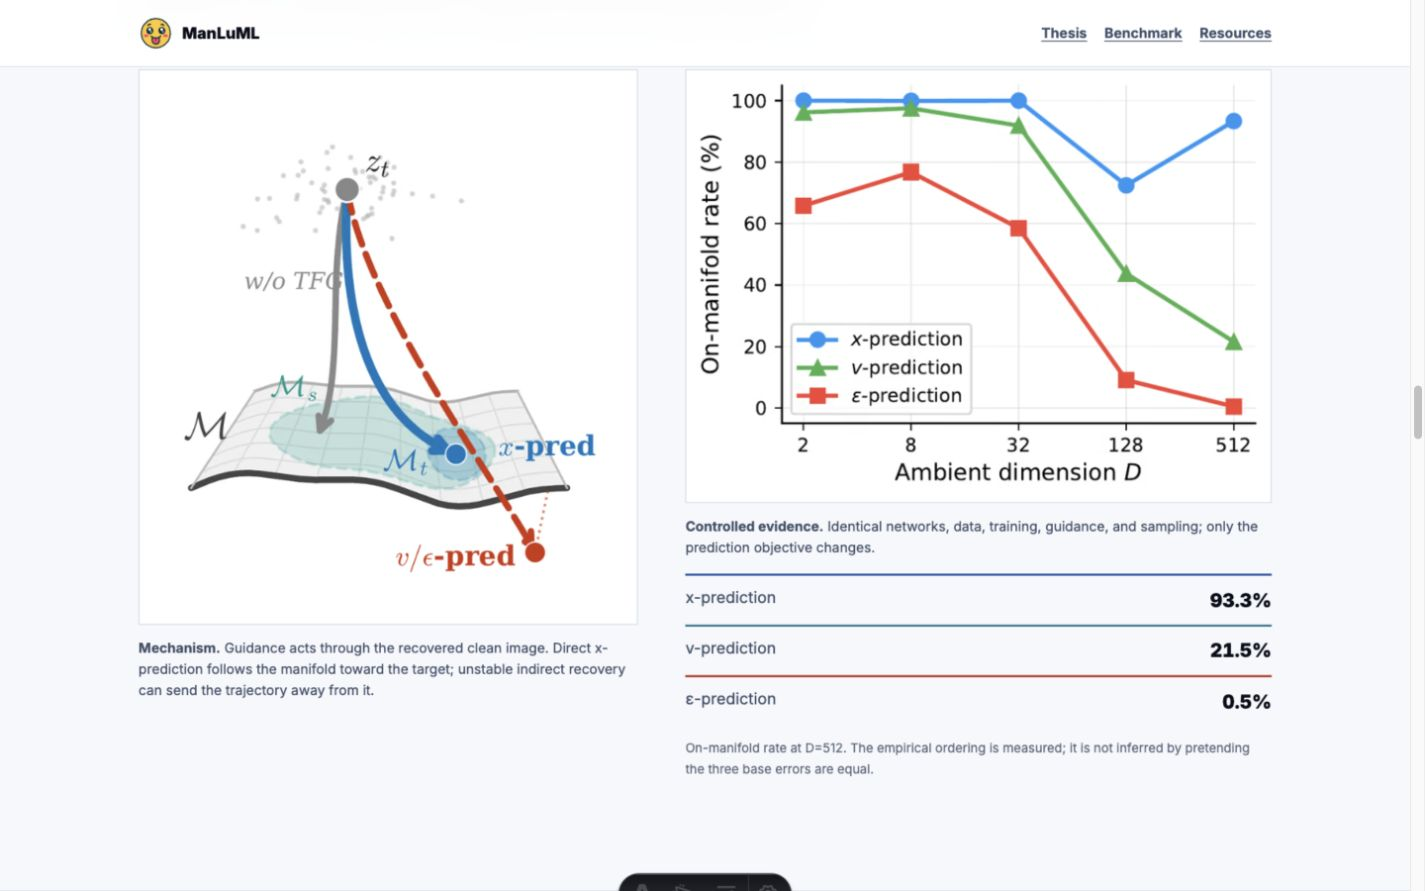
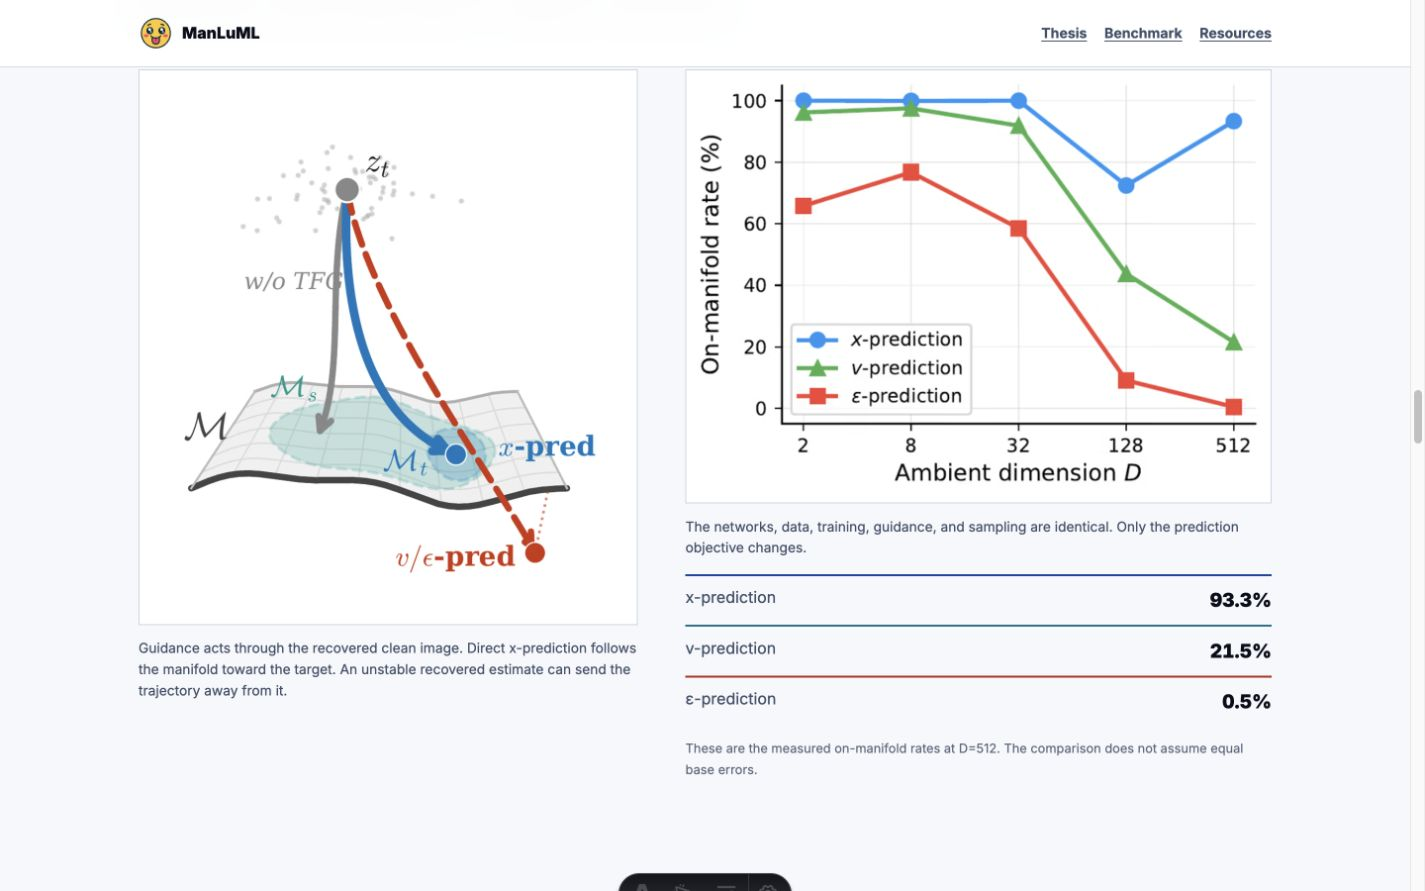
Humanize project page copy

diff --git a/site/tests/e2e/project.spec.ts b/site/tests/e2e/project.spec.ts
@@ -51,7 +51,7 @@ test('project metadata, claims, resources, and text-only affiliations are comple
   await expect(page.getByText('21.5%', { exact: true }).first()).toBeVisible();
   await expect(page.getByText('0.5%', { exact: true }).first()).toBeVisible();
   await expect(page.getByText('9,152 generated images')).toBeVisible();
-  await expect(page.getByRole('heading', { name: 'Steer a pretrained model. Keep the result real.' })).toBeVisible();
+  await expect(page.getByRole('heading', { name: 'Can guidance hit the target and keep the image realistic?' })).toBeVisible();
   await expect(page.getByText('Scope and limitations')).toHaveCount(0);
   await expect(page.getByText(/Camera-ready/i)).toHaveCount(0);
   expect(externalRuntimeRequests).toEqual([]);
@@ -75,7 +75,7 @@ test('failure and mechanism stories are scroll-native and complete', async ({ pa
   await expect(page.locator('.failure-band')).toHaveCount(3);
   for (const band of await page.locator('.failure-band').all()) await expect(band).toBeVisible();
   await expect(page.locator('.recovery-rows article')).toHaveCount(3);
-  await expect(page.getByText('The clean endpoint t=1 is not a robustness comparison')).toBeVisible();
+  await expect(page.getByText('That endpoint does not rank robustness.')).toBeVisible();
 });
 
 test('formula and manifold figure visual baselines remain balanced', async ({ page }) => {
@@ -134,6 +134,7 @@ test('accessibility, English-only output, and reduced motion pass', async ({ pag
   expect(results.violations).toEqual([]);
   const publicText = [await page.locator('body').innerText(), await page.title()].join('\n');
   expect(publicText).not.toMatch(/[\u3131-\u318E\uAC00-\uD7A3]/);
+  expect(publicText).not.toMatch(/[—–]|makes that promise measurable|points in the same direction|Read the sequence, then test the cause|Broadly yes/i);
   expect(await page.locator('html').evaluate((element) => getComputedStyle(element).scrollBehavior)).toBe('auto');
 });
 
@@ -171,7 +172,7 @@ test('mobile failure sequence keeps individual samples legible', async ({ page }
     await target.decode();
   });
   expect(await image.evaluate((element) => (element as HTMLImageElement).currentSrc)).toContain('jit-failure-mobile-640');
-  await expect(page.locator('.failure-band.x')).toHaveScreenshot('project-failure-x-320.png');
+  await expect(page.locator('.failure-band.x picture')).toHaveScreenshot('project-failure-x-320.png');
 });
 
 test('200% text sizing reflows without clipped content', async ({ page }) => {

diff --git a/docs/site-release/validation.md b/docs/site-release/validation.md
@@ -15,22 +15,23 @@ Release candidate verified on 2026-09-01 in Asia/Seoul. Production fields are ap
 | Artifact | Files | Size | `index.html` SHA-256 | 404 SHA-256 | Social-card SHA-256 |
 | --- | ---: | ---: | --- | --- | --- |
[3 lines of base64/hex data omitted]
 
-Both `npm test` commands pass from locked dependencies. Root: seven manifest/unit assertions and six browser tests. Project: eight asset/slide/citation assertions and fifteen browser tests. Astro reports zero type/schema errors, warnings, or hints. Dependency audit reports zero vulnerabilities. Deterministic-integrity checks cover 25 root inputs/outputs and 262 project inputs/outputs, including every generated figure variant, mobile comparison crop, social card, license, complete presentation asset, and generator source.
+Both `npm test` commands pass from locked dependencies. Root: seven manifest/unit assertions and six browser tests. Project: eight asset/slide/citation assertions and fifteen browser tests. Astro reports zero type/schema errors, warnings, or hints. Dependency audit reports zero vulnerabilities. Deterministic-integrity checks cover 25 root inputs/outputs and 266 project inputs/outputs, including every generated figure variant, mobile comparison crop, social card, license, complete presentation asset, and generator source.
 
 ## Contract checks
 
 - Schema: explicit manifest accepts one reviewed published feature, rejects duplicate slugs, invalid/missing links, and unreviewed publication; draft/private and future-project fixtures remain invisible.
 - Build and paths: root and `/on-manifold-tfg/` build statically with trailing slashes; project assets use the configured base. No server runtime, database, analytics, cookies, or external runtime CDN requests.
 - Content: claim table covers the `t=1` endpoint interpretation, high-noise formulas, D=512 values, realistic TFG task, pooled Child FID, matched-validity values, 5.2-point gap, 143 species, 9,152 samples, and broader controls. Search/assertion checks find no blanket “only target differs” cross-model claim.
+- Writing: visible project-page prose passed the Humanizer pattern audit. The rewrite removes stock sales language, repeated answer openings, dramatic fragments, vague transitions, and em/en dashes while preserving every formula, number, qualifier, URL, the accepted-paper abstract, and the provisional BibTeX entry. Distribution and browser tests guard the reviewed wording against regressions.
 - Scroll story: all x/v/ε failure bands, balanced accessible formulas, high-noise explanation, Figure 1(a), dimension plot, benchmark definition, resources, and citation exist in initial HTML. Tabs and the timestep slider are absent; copy feedback remains visible and announced.
 - Accessibility: automated axe reports zero violations; semantic browser tree contains ordered headings, landmarks, named controls, tables/captions, MathML, figure alternatives/captions, status feedback, and a working skip link. Keyboard, reduced-motion, no-JavaScript, and 320px reflow paths pass.
 - Affiliation override: two simplified text affiliations render; no `Republic of Korea` string and zero affiliation-logo image paths or files.
[1 lines of base64/hex data omitted]
 - Metadata: unique titles/descriptions, absolute canonicals, Open Graph/X fields, 1200×630 cards, root Organization/WebSite JSON-LD, project ScholarlyArticle/citation metadata, sitemap, robots files, favicons, and noindexed 404 pages pass assertions.
 - Links: every independently hosted public resource returned HTTP 200 in the prelaunch check, including the official ECCV poster record, arXiv, GitHub profiles/repository, the immutable legacy snapshot, and all three Hugging Face resources. Dedicated post-deployment workflow checks verify both site origins and bidirectional root/project navigation.
-- Lab performance across the final scroll-first candidate runs: root metrics remain unchanged; project LCP is 68–96 ms and CLS 0.0000–0.0015. Latin and Greek Inter subsets are preloaded before first paint to avoid cross-run font-swap shifts. These are local Chromium lab values, not field p75 data.
+- Lab performance across the final scroll-first and humanized-copy candidate runs: root metrics remain unchanged; project LCP is 68–100 ms and CLS 0.0000–0.0015. Latin and Greek Inter subsets are preloaded before first paint to avoid cross-run font-swap shifts. These are local Chromium lab values, not field p75 data.
 - Visual evidence: committed 320px baselines cover the first viewport, text-only affiliations, and a legible mobile failure crop. Desktop captures cover the two-line hero, benchmark definition, scroll-native failure sequence, balanced formulas, and the paired Figure 1(a)/dimension evidence layout.
 
 ## Rollback restoration evidence

diff --git a/docs/project-page-implementation-plan.md b/docs/project-page-implementation-plan.md
@@ -18,6 +18,10 @@ The hero gives the paper title the full content width at a reduced display size,
 
 The BibTeX is independently audited against the official ECCV accepted-paper/poster records, Springer’s ECCV 2026 proceedings-title convention, arXiv, and Crossref. Because paper-level Springer metadata is not public, the provisional entry uses `booktitle = {Computer Vision -- ECCV 2026}` and `note = {To appear}` while intentionally omitting DOI, pages, volume, proceedings part, ISBN, editors, publisher, address, and month.
 
+## Implementation addendum — prose review
+
+The final public copy is reviewed with the Humanizer skill. The pass removes generic sales language, repeated “Yes.” openings, vague evidence summaries, dramatic fragments, and em/en dashes. It keeps the accepted-paper abstract and BibTeX byte-for-byte unchanged and preserves all scientific formulas, numeric results, evaluation units, cross-model qualifiers, resource URLs, and rights statements. Child FID remains explicitly distribution-level: one pooled comparison using all 9,152 guided samples across 143 targets.
+
 ## 1. Outcome
 
 Build two coordinated, English-only GitHub Pages experiences:
